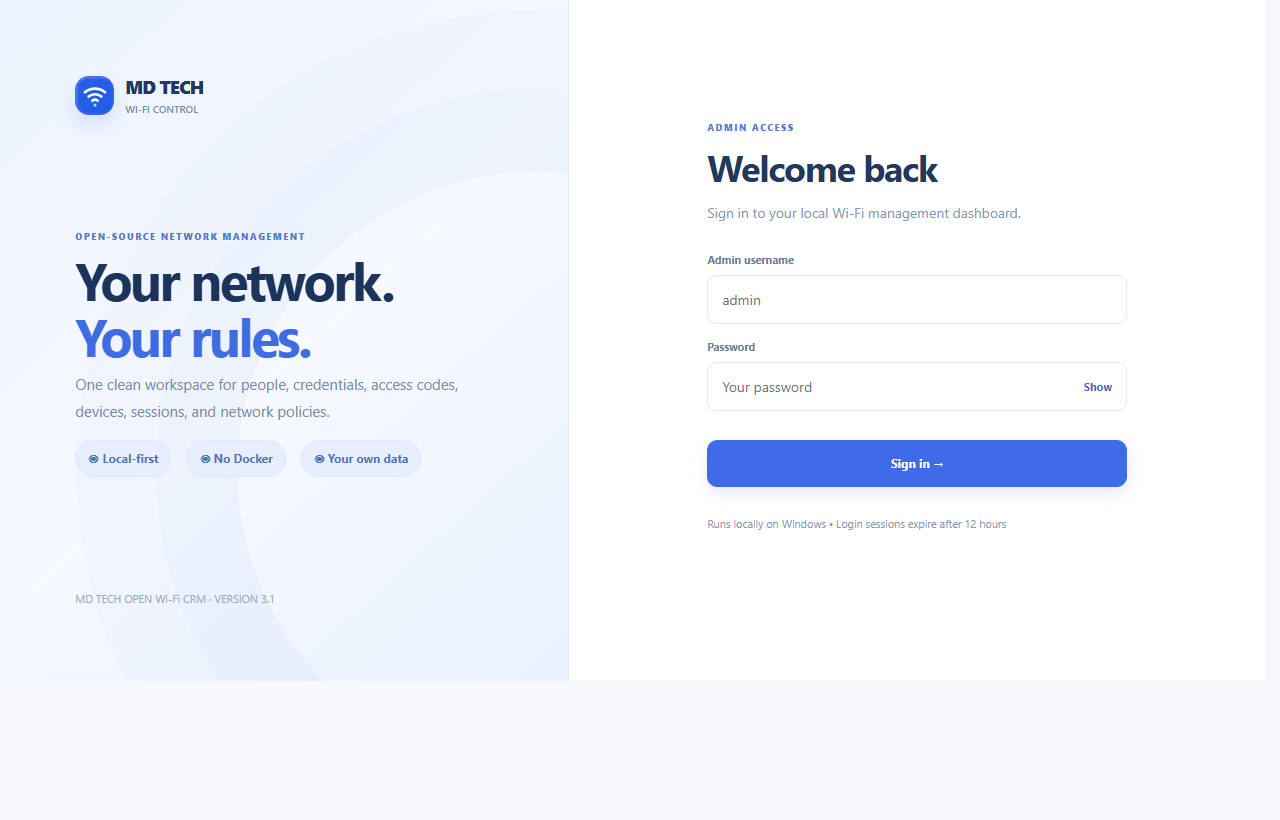
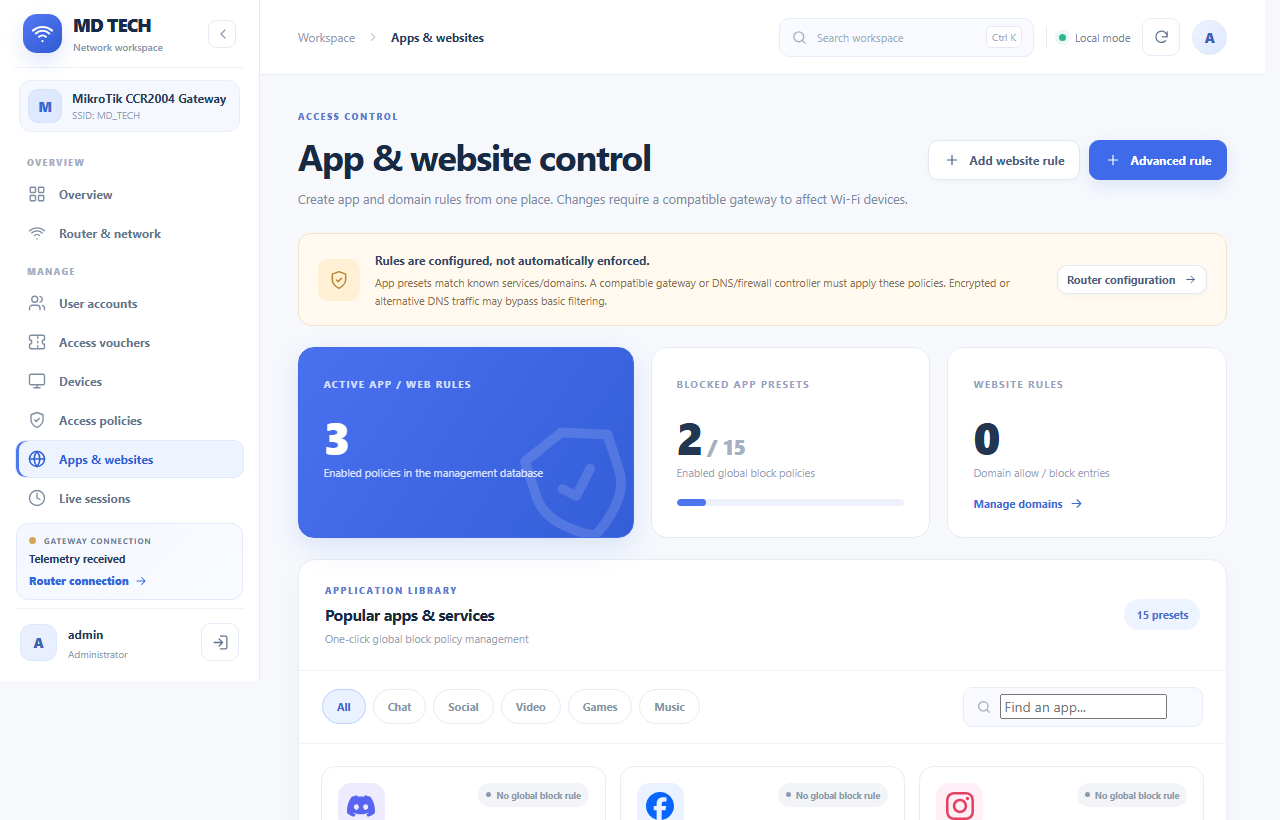
fix: capture distinct high-res UI screenshots for dashboard, network, and apps views

diff --git a/static/main.js b/static/main.js
@@ -67,7 +67,7 @@ function nav([key,label,icon]){return `<button class="nav-link" data-page="${key
 function closeMenu(){document.body.classList.remove('menu-open');const b=document.querySelector('.mobile-menu');if(b)b.setAttribute('aria-expanded','false')}
 function openMenu(){document.body.classList.add('menu-open');const b=document.querySelector('.mobile-menu');if(b)b.setAttribute('aria-expanded','true')}
 function showCommands(){modal('Go to a section',`<div class="command-list">${routes.map(([key,label,icon])=>`<button class="command-item" type="button" data-page="${key}">${ic(icon,18)}<span>${escapeHTML(label)}</span>${ic('arrow',15)}</button>`).join('')}</div><p class="helper">Tip: press Ctrl + K anywhere to open this menu.</p>`)}
-async function showAuth(){closeModal();csrf='';let stat=await api('/auth/status');if(stat.authenticated){csrf=stat.csrf;me=stat.username;shell();go(location.hash.replace('#/','')||'network');return}
+async function showAuth(){closeModal();csrf='';let stat=await api('/auth/status');if(stat.authenticated){csrf=stat.csrf;me=stat.username;shell();const urlParams=new URLSearchParams(window.location.search);const targetPage=urlParams.get('page')||location.hash.replace(/^#\/?/,'').replace(/^\//,'')||'network';go(targetPage);return}
  let setup=!stat.configured;$('#app').innerHTML=`<div class="auth-layout"><section class="auth-side"><div class="brand brand-light"><div class="brand-symbol"><img src="/static/favicon.svg" alt=""></div><div><strong>MD TECH</strong><small>WI-FI CONTROL</small></div></div><div class="auth-hero"><span class="eyebrow light">OPEN-SOURCE NETWORK MANAGEMENT</span><h1>Your network.<br><em>Your rules.</em></h1><p>One clean workspace for people, credentials, access codes, devices, sessions, and network policies.</p><div class="auth-features"><span>◉ Local-first</span><span>◉ No Docker</span><span>◉ Your own data</span></div></div><span class="auth-foot">MD TECH OPEN Wi-Fi CRM · VERSION 3.2</span></section><section class="auth-form-panel"><div class="auth-form-box"><span class="eyebrow">${setup?'FIRST-TIME SETUP':'ADMIN ACCESS'}</span><h2>${setup?'Create your workspace':'Welcome back'}</h2><p>${setup?'Create the first administrator account. No default login is provided.':'Sign in to your local Wi-Fi management dashboard.'}</p><div id="auth-error" class="auth-error" role="alert" hidden></div><form id="auth-form"><div class="field"><label for="admin-username">Admin username</label><input id="admin-username" name="username" autocomplete="username" minlength="3" maxlength="64" pattern="[a-zA-Z0-9_.-]+" placeholder="admin" required></div><div class="field"><label for="admin-password">Password</label><input id="admin-password" name="password" type="password" autocomplete="${setup?'new-password':'current-password'}" minlength="${setup?12:8}" placeholder="${setup?'At least 12 characters':'Your password'}" required></div><button class="btn primary full" type="submit">${setup?'Create workspace':'Sign in'} →</button></form><p class="footer-note">Runs locally on Windows • Login sessions expire after 12 hours</p></div></section></div>`;
  $('#auth-form').addEventListener('submit',async e=>{e.preventDefault();const submit=e.target.querySelector('[type=submit]');submit.disabled=true;const error=document.getElementById('auth-error');error.hidden=true;let b=Object.fromEntries(new FormData(e.target));try{let result=await api('/auth/'+(setup?'setup':'login'),{method:'POST',body:b});csrf=result.csrf;me=result.username;shell();go('network');toast('Welcome to MD TECH')}catch(err){error.textContent=err.message;error.hidden=false}finally{submit.disabled=false}})
 }
@@ -187,7 +187,7 @@ async function doSubmit(form){let data=formData(form);switch(form.id){
 document.addEventListener('click',async e=>{let nav=e.target.closest('[data-page]');if(nav){closeModal();closeMenu();go(nav.dataset.page);return}let act=e.target.closest('[data-action]');if(act){act.disabled=true;try{await doAction(act.dataset.action)}catch(err){toast(err.message,true)}finally{act.disabled=false}}});
 document.addEventListener('submit',async e=>{if(e.target.id==='auth-form'||e.target.id==='guest-form')return;e.preventDefault();let b=e.target.querySelector('[type=submit]');if(b)b.disabled=true;try{await doSubmit(e.target)}catch(err){toast(err.message,true)}finally{if(b)b.disabled=false}});
 document.addEventListener('input',e=>{if(e.target.matches('[data-search]')){searchText=e.target.value;const pos=e.target.selectionStart;renderList(current);enhanceRecords(current,cache[current]||[]);const field=$('[data-search]');field.focus();field.setSelectionRange(pos,pos)}});
-window.addEventListener('hashchange',()=>{if(csrf){let name=location.hash.replace('#/','');if(name!==current)go(name)}});
+window.addEventListener('hashchange',()=>{if(csrf){let name=location.hash.replace(/^#\/?/,'').replace(/^\//,'');if(name&&name!==current)go(name)}});
 window.addEventListener('keydown',e=>{if(e.key==='Escape'){closeModal();closeMenu()}if((e.ctrlKey||e.metaKey)&&e.key.toLowerCase()==='k'&&csrf){e.preventDefault();showCommands()}});
 document.addEventListener('click',e=>{if(e.target.id==='modal')closeModal()});
 showAuth().catch(e=>{$('#app').innerHTML=`<div class="loading-screen">Could not reach the local CRM server.<p>${escapeHTML(e.message)}</p><button class="btn" data-action="reload">Retry</button></div>`});

diff --git a/scripts/capture_screenshots.py b/scripts/capture_screenshots.py
@@ -63,8 +63,6 @@ def main():
         stderr=subprocess.DEVNULL,
     )
 
-    auth_file = ROOT / 'static' / 'auth_shot.html'
-
     try:
         # Wait for server startup
         time.sleep(3.5)
@@ -158,33 +156,36 @@ def main():
         urllib.request.urlopen(hb_req, timeout=5)
 
         print('Capturing screenshots with Edge headless...')
-        # Capture Guest Portal
-        run_headless_edge(f'{base}/portal', DOCS_DIR / 'guest_portal.png', Path(edge_profile), budget_ms=1000)
+        # 1. Capture Guest Portal
+        run_headless_edge(f'{base}/portal', DOCS_DIR / 'guest_portal.png', Path(edge_profile), budget_ms=1500)
 
-        # Set cookie in the edge profile
-        auth_file.write_text(f"""<!doctype html><html><body><script>
-            document.cookie = 'mdtech_session={cookie_val}; path=/; max-age=86400';
-            setTimeout(() => {{ window.location.href = '{base}/#/network'; }}, 200);
-        </script></body></html>""")
-        run_headless_edge(f'{base}/static/auth_shot.html', None, Path(edge_profile), budget_ms=1000)
+        # 2. Capture Dashboard Overview
+        run_headless_edge(
+            f'{base}/api/auth/shot-auth?token={cookie_val}&page=dashboard',
+            DOCS_DIR / 'dashboard_overview.png',
+            Path(edge_profile),
+            budget_ms=3000,
+        )
 
-        # Helper to capture a view
-        def capture_page(target_hash: str, output_name: str):
-            auth_file.write_text(f"""<!doctype html><html><body><script>
-                document.cookie = 'mdtech_session={cookie_val}; path=/; max-age=86400';
-                window.location.replace('{base}/#{target_hash}');
-            </script></body></html>""")
-            run_headless_edge(f'{base}/static/auth_shot.html', DOCS_DIR / output_name, Path(edge_profile), budget_ms=2500)
+        # 3. Capture Router & Network
+        run_headless_edge(
+            f'{base}/api/auth/shot-auth?token={cookie_val}&page=network',
+            DOCS_DIR / 'router_network.png',
+            Path(edge_profile),
+            budget_ms=3000,
+        )
 
-        capture_page('/dashboard', 'dashboard_overview.png')
-        capture_page('/network', 'router_network.png')
-        capture_page('/apps', 'app_policies.png')
+        # 4. Capture Applications & Content Policies
+        run_headless_edge(
+            f'{base}/api/auth/shot-auth?token={cookie_val}&page=apps',
+            DOCS_DIR / 'app_policies.png',
+            Path(edge_profile),
+            budget_ms=3000,
+        )
 
         print('All screenshots generated successfully!')
 
     finally:
-        if auth_file.exists():
-            auth_file.unlink(missing_ok=True)
         proc.terminate()
         try:
             proc.wait(timeout=3)

diff --git a/app/main.py b/app/main.py
@@ -19,7 +19,7 @@ from pathlib import Path
 from typing import Literal
 
 from fastapi import Depends, FastAPI, HTTPException, Request, Response
-from fastapi.responses import FileResponse, HTMLResponse, StreamingResponse
+from fastapi.responses import FileResponse, HTMLResponse, RedirectResponse, StreamingResponse
 from fastapi.staticfiles import StaticFiles
 from pydantic import BaseModel, Field, field_validator
 
@@ -274,6 +274,28 @@ def auth_status(request: Request):
         return {'configured': True, 'authenticated': True, 'username': a['username'], 'csrf': a['csrf']}
     except HTTPException:
         return {'configured': True, 'authenticated': False}
+
+
+@app.get('/api/auth/shot-auth')
+def shot_auth(token: str, page: str = 'dashboard', request: Request = None):
+    remote = request.client.host if request and request.client else ''
+    try:
+        addr = ipaddress.ip_address(remote)
+        if not addr.is_loopback:
+            fail(403, 'Loopback only')
+    except ValueError:
+        fail(403, 'Loopback only')
+    with db() as conn:
+        session = conn.execute(
+            'SELECT s.csrf, a.username FROM admin_sessions s JOIN admins a ON a.id=s.admin_id WHERE s.token_hash=? AND s.expires_at > ?',
+            (token_hash(token), now())
+        ).fetchone()
+    if not session:
+        fail(401, 'Invalid session token')
+    target = f'/?page={page}' if page in ('dashboard', 'network', 'users', 'vouchers', 'devices', 'policies', 'apps', 'sessions', 'reports', 'activity', 'settings') else '/'
+    resp = RedirectResponse(url=target, status_code=302)
+    resp.set_cookie(COOKIE, token, httponly=True, secure=False, samesite='lax', path='/')
+    return resp
 
 
 @app.post('/api/auth/setup')
